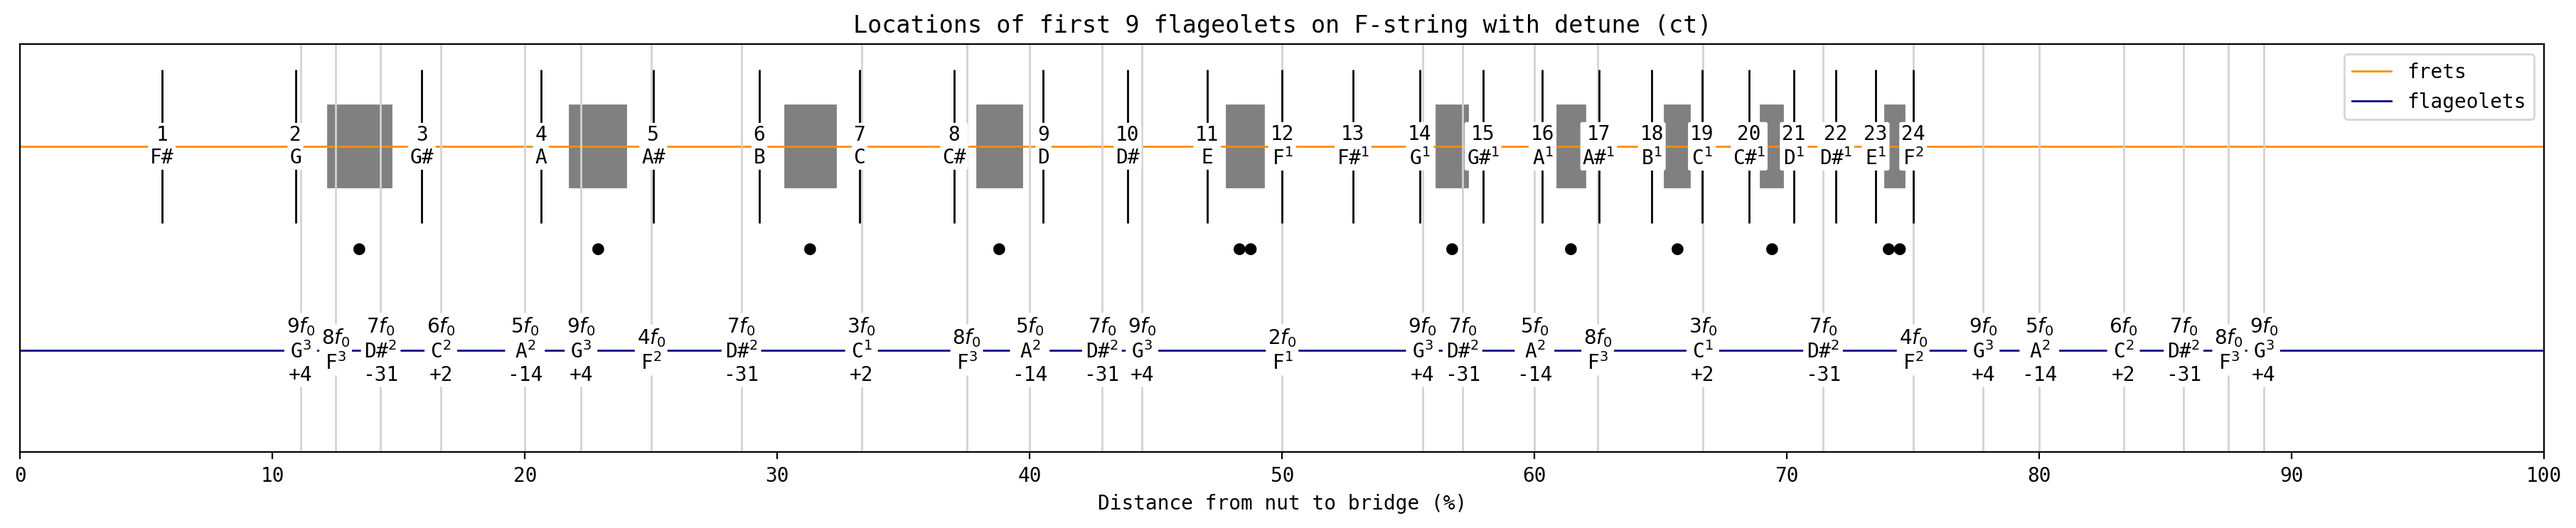
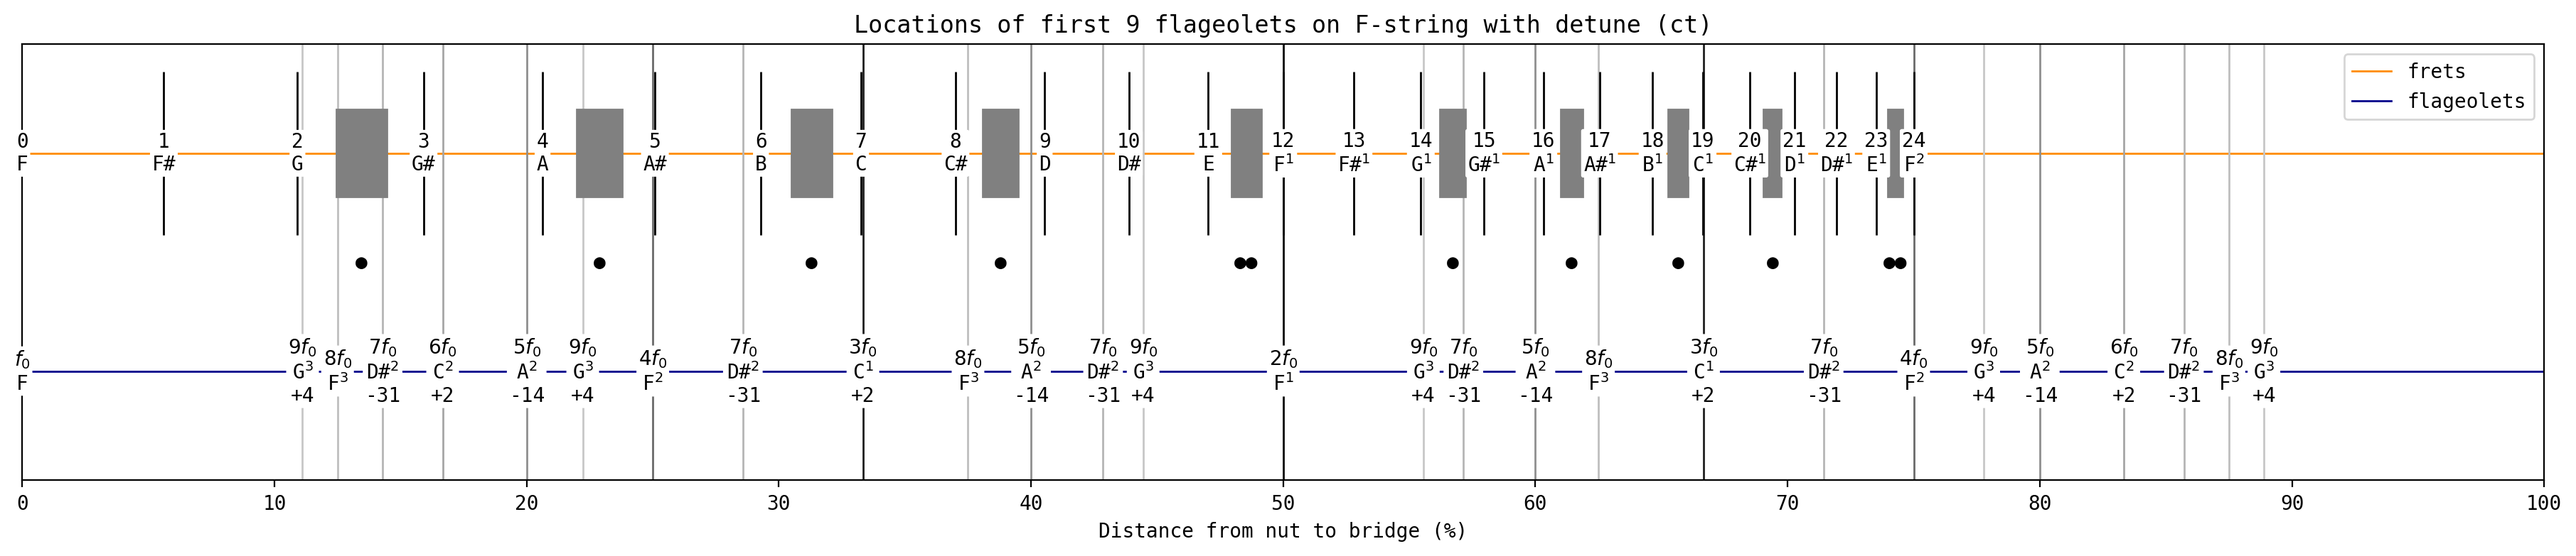
Add zero fret and flagiolet, add relative strength indicator

diff --git a/main.py b/main.py
@@ -7,38 +7,46 @@ import math
 
 PITCH_CLASS_TABLE = ["C", "C#", "D", "D#", "E", "F", "F#", "G", "G#", "A", "A#", "B"]
 
-# Distance from nut to bridge in %.
-scale_length = 100
 # Number of frets to show.
 frets = range(1, 25)
 # Harmonics to show nodes of.
-harmonics = [2, 3, 4, 5, 6, 7, 8, 9]
+harmonics = range(2, 10)
 
 
 def main():
+    # print(get_harmonic_intensity(5.5, harmonics))
     for root_note in PITCH_CLASS_TABLE:
-        plot_flagiolets(root_note)
+        plot_data(root_note)
         print("Finished", root_note, "string")
 
     print("Done!")
 
 
-def plot_flagiolets(root_note):
+def plot_data(root_note):
+    """Plot all fret and flagiolet data for the given root note."""
     # Figure styling.
     plt.rc("font", size=10)
     plt.rc("font", family="monospace")
 
-    _, ax = plt.subplots(figsize=(18, 3.6), layout="constrained")
-    ax.axhline(1, alpha=1, color="darkorange", linewidth=1, label="frets")
-    ax.axhline(0, alpha=1, color="darkblue", linewidth=1, label="flageolets")
-    ax.set_xlim([0, scale_length])
-    ax.xaxis.set_major_locator(ticker.MultipleLocator(10))
+    grayscale_cmap = plt.get_cmap("gray_r")
+
+    _, ax = plt.subplots(figsize=(18, 3.8), layout="constrained")
+    ax.axhline(1, alpha=1, color="darkorange", linewidth=1, label="frets", zorder=-1)
+    ax.axhline(0, alpha=1, color="darkblue", linewidth=1, label="flageolets", zorder=-1)
+    ax.set_xlim([0, 1])
+    ax.xaxis.set_major_locator(ticker.MultipleLocator(0.1))
+    ax.xaxis.set_major_formatter(ticker.FuncFormatter(lambda x, _: f"{x * 100:.0f}"))
     ax.set_ylim([-0.5, 1.5])
     ax.set_xlabel("Distance from nut to bridge (%)")
     ax.get_yaxis().set_visible(False)
-    bbox_style = dict(facecolor="white", edgecolor="none", boxstyle="round, pad=0.1")
     plt.title(f"Locations of first 9 flageolets on {root_note}-string with detune (ct)")
     plt.legend()
+
+    # Draw zero fret.
+    draw_text(ax, 0, 1, f"0\n{root_note}")
+
+    # Draw zero flageolet.
+    draw_text(ax, 0, 0, f"$f_0$\n{root_note}")
 
     # Index of root note in pitch class table. Used later to calculate notes.
     root_idx = PITCH_CLASS_TABLE.index(root_note)
@@ -48,7 +56,7 @@ def plot_flagiolets(root_note):
         # Every nth harmonic has n-1 nodes on the string. Iterate through
         # all of them.
         for numerator in range(1, harmonic):
-            distance = scale_length * numerator / harmonic
+            distance = numerator / harmonic
 
             # Check for existing lower-order nodes.
             if distance in existing_distances:
@@ -71,23 +79,13 @@ def plot_flagiolets(root_note):
 
             # Draw flageolets.
             num_cents_str = "" if rounded_num_cents == 0 else f"\n{rounded_num_cents:+}"
+            pitch_str = f"{pitch_class}$^{{{num_octaves}}}$"
+            intensity = get_harmonic_intensity(harmonic)
+            color = grayscale_cmap(intensity)
             ax.eventplot(
-                [distance],
-                lineoffsets=0,
-                linelengths=3,
-                linewidths=1,
-                color="lightgray",
+                [distance], lineoffsets=0, linelengths=3, linewidths=1, color=color
             )
-            ax.text(
-                distance,
-                0,
-                f"${harmonic}f_0$"
-                + f"\n{pitch_class}$^{{{num_octaves}}}$"
-                + num_cents_str,
-                horizontalalignment="center",
-                verticalalignment="center",
-                bbox=bbox_style,
-            )
+            draw_text(ax, distance, 0, f"${harmonic}f_0$\n{pitch_str}{num_cents_str}")
 
     # Mark frets with a single dot.
     marked_frets = [3, 5, 7, 9, 15, 17, 19, 21, 27, 29, 31, 33]
@@ -96,7 +94,7 @@ def plot_flagiolets(root_note):
 
     for fret in frets:
         # Use equal temperament for fret spacing calculations.
-        distance = scale_length - scale_length * 2 ** (-fret / 12)
+        distance = get_fret_position(fret)
 
         # Calculate distance from root note.
         num_octaves = semitones_to_octaves(fret)
@@ -110,41 +108,22 @@ def plot_flagiolets(root_note):
         ax.eventplot(
             [distance], lineoffsets=1, linelengths=0.75, linewidths=1, color="black"
         )
-        ax.text(
-            distance,
-            1,
-            f"{fret}" + f"\n{pitch_class}{octave_str}",
-            horizontalalignment="center",
-            verticalalignment="center",
-            bbox=bbox_style,
-        )
+        draw_text(ax, distance, 1, f"{fret}" + f"\n{pitch_class}{octave_str}")
 
-        marker_distance = scale_length - scale_length * 2 ** (-(fret - 0.5) / 12)
-        # Draw fret markers.
+        # Draw dot markers.
+        dot_distance = get_fret_position(fret - 0.5)
         if fret in marked_frets:
-            ax.text(
-                marker_distance,
-                0.5,
-                f"●",
-                horizontalalignment="center",
-                verticalalignment="center",
-            )
+            draw_text(ax, dot_distance, 0.5, "●")
         if fret in marked_octaves:
-            ax.text(
-                marker_distance,
-                0.5,
-                f"●●",
-                horizontalalignment="center",
-                verticalalignment="center",
-            )
+            draw_text(ax, dot_distance, 0.5, "●●")
 
-        rect_left = scale_length - scale_length * 2 ** (-(fret - 0.75) / 12)
-        rect_right = scale_length - scale_length * 2 ** (-(fret - 0.25) / 12)
-        rect_width = rect_right - rect_left
-        rect_height = 0.4
-
+        # Draw rectangular markers.
         if fret in marked_frets or fret in marked_octaves:
-            # Create a Rectangle patch
+            rect_left = get_fret_position(fret - 0.7)
+            rect_right = get_fret_position(fret - 0.3)
+            rect_width = rect_right - rect_left
+            rect_height = 0.4
+
             rect = patches.Rectangle(
                 (rect_left, 1 - rect_height / 2),
                 rect_width,
@@ -152,9 +131,9 @@ def plot_flagiolets(root_note):
                 linewidth=1,
                 edgecolor="gray",
                 facecolor="gray",
+                zorder=10,
             )
 
-            # Add the patch to the Axes
             ax.add_patch(rect)
 
     plt.savefig(f"output/flageolets_{root_note}.png", bbox_inches="tight", dpi=200)
@@ -172,6 +151,33 @@ def semitones_to_octaves(num_semitones):
     num_octaves = math.floor(num_semitones / 12)
 
     return num_octaves
+
+
+def get_fret_position(fret):
+    """Get the position of a fret on the fretboard."""
+    position = 1 - 2 ** (-(fret / 12))
+
+    return position
+
+
+def get_harmonic_intensity(harmonic):
+    """Get intensity of harmonic (used for coloring)."""
+    intensity = 1 / ((harmonic - 1) / 1.75)
+
+    return intensity
+
+
+def draw_text(ax, x, y, text):
+    """Draw text on the given Axes."""
+    ax.text(
+        x,
+        y,
+        text,
+        horizontalalignment="center",
+        verticalalignment="center",
+        bbox=dict(facecolor="white", edgecolor="none", boxstyle="round, pad=0.1"),
+        zorder=11,
+    )
 
 
 if __name__ == "__main__":
